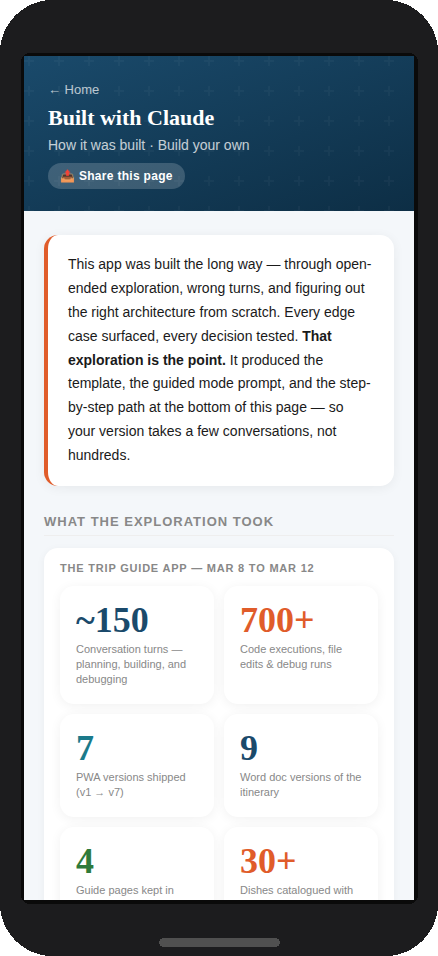
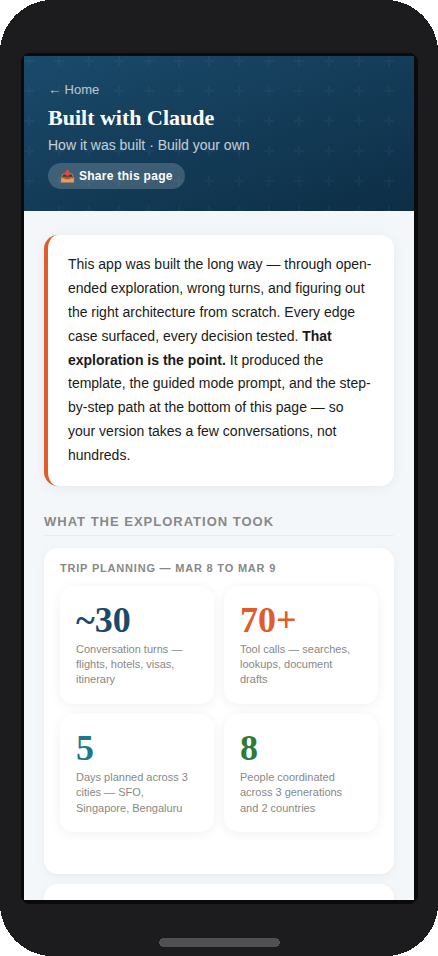
split to trip planning and app building

diff --git a/build.html b/build.html
@@ -110,18 +110,41 @@ body { font-family: 'DM Sans', sans-serif; background: var(--bg); padding-bottom
     <p style="font-size:14px;color:var(--dark);line-height:1.7;margin:0;">This app was built the long way — through open-ended exploration, wrong turns, and figuring out the right architecture from scratch. Every edge case surfaced, every decision tested. <strong>That exploration is the point.</strong> It produced the template, the guided mode prompt, and the step-by-step path at the bottom of this page — so your version takes a few conversations, not hundreds.</p>
   </div>
 
+
   <!-- ── Stats ── -->
   <div class="section-head">What the exploration took</div>
 
   <div style="background:white;border-radius:14px;padding:14px 16px;margin-bottom:10px;box-shadow:0 2px 8px rgba(0,0,0,0.05);">
-    <div style="font-size:11px;font-weight:700;letter-spacing:0.8px;text-transform:uppercase;color:var(--light);margin-bottom:12px;">The trip guide app — Mar 8 to Mar 12</div>
+    <div style="font-size:11px;font-weight:700;letter-spacing:0.8px;text-transform:uppercase;color:var(--light);margin-bottom:12px;">Trip planning — Mar 8 to Mar 9</div>
     <div class="stats-grid">
       <div class="stat-box">
-        <div class="stat-num">~150</div>
-        <div class="stat-label">Conversation turns — planning, building, and debugging</div>
+        <div class="stat-num">~30</div>
+        <div class="stat-label">Conversation turns — flights, hotels, visas, itinerary</div>
       </div>
       <div class="stat-box accent">
-        <div class="stat-num">700+</div>
+        <div class="stat-num">70+</div>
+        <div class="stat-label">Tool calls — searches, lookups, document drafts</div>
+      </div>
+      <div class="stat-box teal">
+        <div class="stat-num">5</div>
+        <div class="stat-label">Days planned across 3 cities — SFO, Singapore, Bengaluru</div>
+      </div>
+      <div class="stat-box green">
+        <div class="stat-num">8</div>
+        <div class="stat-label">People coordinated across 3 generations and 2 countries</div>
+      </div>
+    </div>
+  </div>
+
+  <div style="background:white;border-radius:14px;padding:14px 16px;margin-bottom:10px;box-shadow:0 2px 8px rgba(0,0,0,0.05);">
+    <div style="font-size:11px;font-weight:700;letter-spacing:0.8px;text-transform:uppercase;color:var(--light);margin-bottom:12px;">Building the app — Mar 9 to Mar 12</div>
+    <div class="stats-grid">
+      <div class="stat-box">
+        <div class="stat-num">~120</div>
+        <div class="stat-label">Conversation turns — building, iterating, debugging</div>
+      </div>
+      <div class="stat-box accent">
+        <div class="stat-num">630+</div>
         <div class="stat-label">Code executions, file edits & debug runs</div>
       </div>
       <div class="stat-box teal">
@@ -183,10 +206,25 @@ body { font-family: 'DM Sans', sans-serif; background: var(--bg); padding-bottom
   <!-- ── Story ── -->
   <div class="section-head">How it unfolded</div>
 
+  <div style="font-size:11px;font-weight:700;letter-spacing:0.8px;text-transform:uppercase;color:var(--light);margin:0 0 8px;padding-left:2px;">Trip planning</div>
+
   <div class="phase">
     <div class="phase-title">Phase 1 — Trip planning (no app yet)</div>
-    <div class="phase-body">It started with flights. "Help me plan a family trip to Singapore." Visa requirements, hotel shortlisting, day-by-day itinerary — the app didn't exist yet. The key insight that shaped everything: different members needed the same trip communicated completely differently.</div>
+    <div class="phase-body">It started with a single message: <em>"I want help planning an itinerary for my upcoming travel from San Francisco. Our family of 4: 2 adults, 1 four-year-old, 1 one-and-a-half-year-old, want to go back home to India."</em>
+    <br><br>
+    What followed was a deep planning session that covered far more than a rough schedule. Group demographics were established first — two adults on Indian passports with US H-1B visas, two children on US passports, then later four grandparents joining from Bengaluru with their own visa and flight requirements. Budget, travel style, and priorities were agreed. Visa requirements for each passport type in each country were researched and flagged.
+    <br><br>
+    Flights were researched live across three legs: SFO → Singapore, Bengaluru → Singapore (for the grandparents), and Singapore → Bengaluru for all eight. Airline options, prices, timings, and layover strategies were compared. Hotel shortlisting covered location (proximity to MRT, family rooms, cribs, early check-in), and then the confirmed booking details were woven into every subsequent part of the plan.
+    <br><br>
+    Logistics that a guidebook wouldn't cover: baggage storage at Changi for seven large checked bags, car seat regulations for Singapore taxis, GrabMax capacity for a group of eight plus luggage, which grandparent guide formats work on older Android phones, how the MRT handles strollers, pacing across a multigenerational group with two young children.
+    <br><br>
+    Dietary constraints shaped the entire food plan: vegetarian-only before temple visits, no added sugar for the toddler, soft textures only for the 1.5-year-old, low-sugar but vacation-flexible for the four-year-old, halal options noted for a mixed group at shared hawker centres. Activities were chosen and sequenced for an audience that included grandparents with mobility considerations and toddlers with nap schedules.
+    <br><br>
+    The key insight that shaped everything that came after: <strong>eight people, three generations, two languages, and completely different needs from the same trip</strong>. A single shared document was never going to work.
+    </div>
   </div>
+
+  <div style="font-size:11px;font-weight:700;letter-spacing:0.8px;text-transform:uppercase;color:var(--light);margin:16px 0 8px;padding-left:2px;">Building the app</div>
 
   <div class="phase orange">
     <div class="phase-title">Phase 2 — First app, one page</div>
@@ -276,13 +314,15 @@ body { font-family: 'DM Sans', sans-serif; background: var(--bg); padding-bottom
   <div style="background:#1A4A6B;border-radius:16px;padding:20px;margin-bottom:12px;">
     <div style="font-size:11px;font-weight:700;letter-spacing:1.2px;text-transform:uppercase;color:rgba(255,255,255,0.5);margin-bottom:10px;">Copy this prompt into Claude</div>
     <p style="font-size:13px;color:rgba(255,255,255,0.92);line-height:1.75;font-family:'DM Sans',sans-serif;margin:0;">
-      I want to build a mobile trip guide app for my family — a shareable link that works fully offline (all pages cached on the very first load, so the whole family can use it without any internet connection even if they only opened the home page), with a day-by-day schedule and food recommendations, tailored for different members of my group (like grandparents who may need a simpler version).<br><br>
-      I have no coding experience. Please guide me step by step. If I'm ever stuck or unsure what to do next, just tell me exactly what to do.<br><br>
-      For reference, here's an example of what we're building: <span style="color:#7FB8D4">https://github.com/hrajendra/sg-trip-2026</span> — feel free to use this as a starting template and adapt the structure, features, and design for my trip.<br><br>
-      Start by asking me everything you need to know about the trip — one topic at a time so it's not overwhelming. Once you have the full picture, first build me a clean itinerary document I can review. After I approve it, build the mobile app. At the end, give me simple instructions to put it online for free so I can share the link with everyone.
+      I want to build a mobile trip guide app for my family — a shareable link that works fully offline (all pages cached on the very first load), with a day-by-day schedule and food recommendations, tailored for different members of my group.<br><br>
+      I have no coding experience. Please guide me step by step. If I'm ever stuck, just tell me exactly what to do.<br><br>
+      For reference: <span style="color:#7FB8D4">https://github.com/hrajendra/sg-trip-2026</span> — use this as a starting template.<br><br>
+      <strong style="color:rgba(255,255,255,0.85);">Phase 1 — Trip planning:</strong> Ask me everything you need to know, one topic at a time. Cover the group (who's coming, ages, generations, languages), logistics (flights, hotel, dates, visas), dietary needs for each person, activities and priorities. Then build me a clean itinerary document to review and approve.<br><br>
+      <strong style="color:rgba(255,255,255,0.85);">Phase 2 — Building the app:</strong> After I approve the itinerary, build the mobile app. Create tailored views for different members — a full detailed guide for adults, a simpler version for grandparents in their language. Include food recommendations with dietary tags, hawker centre dish lists, and a countdown timer.<br><br>
+      <strong style="color:rgba(255,255,255,0.85);">Phase 3 — Publishing:</strong> Give me simple step-by-step instructions to put the app online for free using GitHub Pages so I can share a link with everyone.
     </p>
   <div style="display:flex;gap:10px;margin-top:14px;">
-    <a href="https://claude.ai/new?q=I%20want%20to%20build%20a%20mobile%20trip%20guide%20app%20for%20my%20family%20%E2%80%94%20a%20shareable%20link%20that%20works%20fully%20offline%20%28all%20pages%20cached%20on%20the%20very%20first%20load%2C%20so%20the%20whole%20family%20can%20use%20it%20without%20any%20internet%20connection%20even%20if%20they%20only%20opened%20the%20home%20page%29%2C%20with%20a%20day-by-day%20schedule%20and%20food%20recommendations%2C%20tailored%20for%20different%20members%20of%20my%20group%20%28like%20grandparents%20who%20may%20need%20a%20simpler%20version%29.%0A%0AI%20have%20no%20coding%20experience.%20Please%20guide%20me%20step%20by%20step.%20If%20I%27m%20ever%20stuck%20or%20unsure%20what%20to%20do%20next%2C%20just%20tell%20me%20exactly%20what%20to%20do.%0A%0AFor%20reference%2C%20here%27s%20an%20example%20of%20what%20we%27re%20building%3A%20https%3A//github.com/hrajendra/sg-trip-2026%20%E2%80%94%20feel%20free%20to%20use%20this%20as%20a%20starting%20template%20and%20adapt%20the%20structure%2C%20features%2C%20and%20design%20for%20my%20trip.%0A%0AStart%20by%20asking%20me%20everything%20you%20need%20to%20know%20about%20the%20trip%20%E2%80%94%20one%20topic%20at%20a%20time%20so%20it%27s%20not%20overwhelming.%20Once%20you%20have%20the%20full%20picture%2C%20first%20build%20me%20a%20clean%20itinerary%20document%20I%20can%20review.%20After%20I%20approve%20it%2C%20build%20the%20mobile%20app.%20At%20the%20end%2C%20give%20me%20simple%20instructions%20to%20put%20it%20online%20for%20free%20so%20I%20can%20share%20the%20link%20with%20everyone." target="_blank" rel="noopener"
+    <a href="https://claude.ai/new?q=I%20want%20to%20build%20a%20mobile%20trip%20guide%20app%20for%20my%20family%20%E2%80%94%20a%20shareable%20link%20that%20works%20fully%20offline%20%28all%20pages%20cached%20on%20the%20very%20first%20load%2C%20so%20the%20whole%20family%20can%20use%20it%20without%20any%20internet%20connection%20even%20if%20they%20only%20opened%20the%20home%20page%29%2C%20with%20a%20day-by-day%20schedule%20and%20food%20recommendations%2C%20tailored%20for%20different%20members%20of%20my%20group%20%28like%20grandparents%20who%20may%20need%20a%20simpler%20version%29.%0A%0AI%20have%20no%20coding%20experience.%20Please%20guide%20me%20step%20by%20step.%20If%20I%27m%20ever%20stuck%20or%20unsure%20what%20to%20do%20next%2C%20just%20tell%20me%20exactly%20what%20to%20do.%0A%0AFor%20reference%2C%20here%27s%20an%20example%20of%20what%20we%27re%20building%3A%20https%3A//github.com/hrajendra/sg-trip-2026%20%E2%80%94%20feel%20free%20to%20use%20this%20as%20a%20starting%20template%20and%20adapt%20the%20structure%2C%20features%2C%20and%20design%20for%20my%20trip.%0A%0APlease%20work%20through%20this%20in%20three%20phases%3A%0A%0APhase%201%20%E2%80%94%20Trip%20planning%3A%20Ask%20me%20everything%20you%20need%20to%20know%2C%20one%20topic%20at%20a%20time.%20Cover%20the%20group%20%28who%27s%20coming%2C%20ages%2C%20generations%2C%20languages%20spoken%29%2C%20logistics%20%28flights%2C%20hotel%2C%20dates%2C%20visas%29%2C%20dietary%20needs%20and%20restrictions%20for%20each%20person%2C%20activities%20and%20priorities%2C%20and%20anything%20else%20that%20would%20shape%20the%20itinerary.%20Once%20you%20have%20the%20full%20picture%2C%20build%20me%20a%20clean%20itinerary%20document%20I%20can%20review%20and%20approve.%0A%0APhase%202%20%E2%80%94%20Building%20the%20app%3A%20After%20I%20approve%20the%20itinerary%2C%20build%20the%20mobile%20app.%20Create%20separate%20tailored%20views%20for%20different%20members%20of%20the%20group%20%E2%80%94%20a%20full%20detailed%20guide%20for%20the%20adults%2C%20and%20a%20simpler%20version%20for%20the%20grandparents%20%28in%20their%20language%20if%20needed%29.%20Include%20food%20recommendations%20with%20dietary%20tags%2C%20dish%20lists%20for%20hawker%20centres%2C%20and%20a%20countdown%20timer%20on%20the%20home%20screen.%0A%0APhase%203%20%E2%80%94%20Publishing%3A%20Give%20me%20simple%20step-by-step%20instructions%20to%20put%20the%20app%20online%20for%20free%20using%20GitHub%20Pages%20so%20I%20can%20share%20a%20link%20with%20everyone%20in%20the%20group." target="_blank" rel="noopener"
       style="flex:1;display:flex;align-items:center;justify-content:center;gap:6px;
         background:white;color:#1A4A6B;border-radius:10px;padding:11px;
         font-size:13px;font-weight:700;text-decoration:none;font-family:'DM Sans',sans-serif;">
@@ -358,7 +398,13 @@ I have no coding experience. Please guide me step by step. If I'm ever stuck or 
 
 For reference, here's an example of what we're building: https://github.com/hrajendra/sg-trip-2026 — feel free to use this as a starting template and adapt the structure, features, and design for my trip.
 
-Start by asking me everything you need to know about the trip — one topic at a time so it's not overwhelming. Once you have the full picture, first build me a clean itinerary document I can review. After I approve it, build the mobile app. At the end, give me simple instructions to put it online for free so I can share the link with everyone.`;
+Please work through this in three phases:
+
+Phase 1 — Trip planning: Ask me everything you need to know, one topic at a time. Cover the group (who's coming, ages, generations, languages spoken), logistics (flights, hotel, dates, visas), dietary needs and restrictions for each person, activities and priorities, and anything else that would shape the itinerary. Once you have the full picture, build me a clean itinerary document I can review and approve.
+
+Phase 2 — Building the app: After I approve the itinerary, build the mobile app. Create separate tailored views for different members of the group — a full detailed guide for the adults, and a simpler version for the grandparents (in their language if needed). Include food recommendations with dietary tags, dish lists for hawker centres, and a countdown timer on the home screen.
+
+Phase 3 — Publishing: Give me simple step-by-step instructions to put the app online for free using GitHub Pages so I can share a link with everyone in the group.`;
     navigator.clipboard.writeText(text).then(function() {
       showToast('Prompt copied! ✓');
     }).catch(function() {

diff --git a/README.md b/README.md
@@ -142,9 +142,9 @@ This entire app was built the long way — through open-ended exploration, wrong
 
 **That exploration is the point.** It produced the template, the guided mode prompt, and the step-by-step path below — so your version takes a few conversations, not hundreds.
 
-This entire app was built through conversation with Claude — no code was written by hand. The full story, stats, retrospective, and guided mode for building your own is in **[build.html](https://hrajendra.github.io/sg-trip-2026/build.html)** — linked from the app home screen.
+The guided mode prompt is structured in three phases — trip planning, building the app, and publishing — mirroring how this one was actually built. The full story, stats, and retrospective are in **[build.html](https://hrajendra.github.io/sg-trip-2026/build.html)**.
 
-The fastest way to start: **[✦ Open guided mode in Claude](https://hrajendra.github.io/sg-trip-2026/build.html#guided-mode)** — a pre-filled prompt that kicks off a step-by-step conversation to build your own trip guide. Or go straight to Claude with the prompt: [claude.ai/new](https://claude.ai/new).
+**[✦ Open guided mode in Claude](https://hrajendra.github.io/sg-trip-2026/build.html#guided-mode)** — a pre-filled three-phase prompt that kicks off the conversation. Or browse [claude.ai/new](https://claude.ai/new) to start fresh.
 
 ---
 
